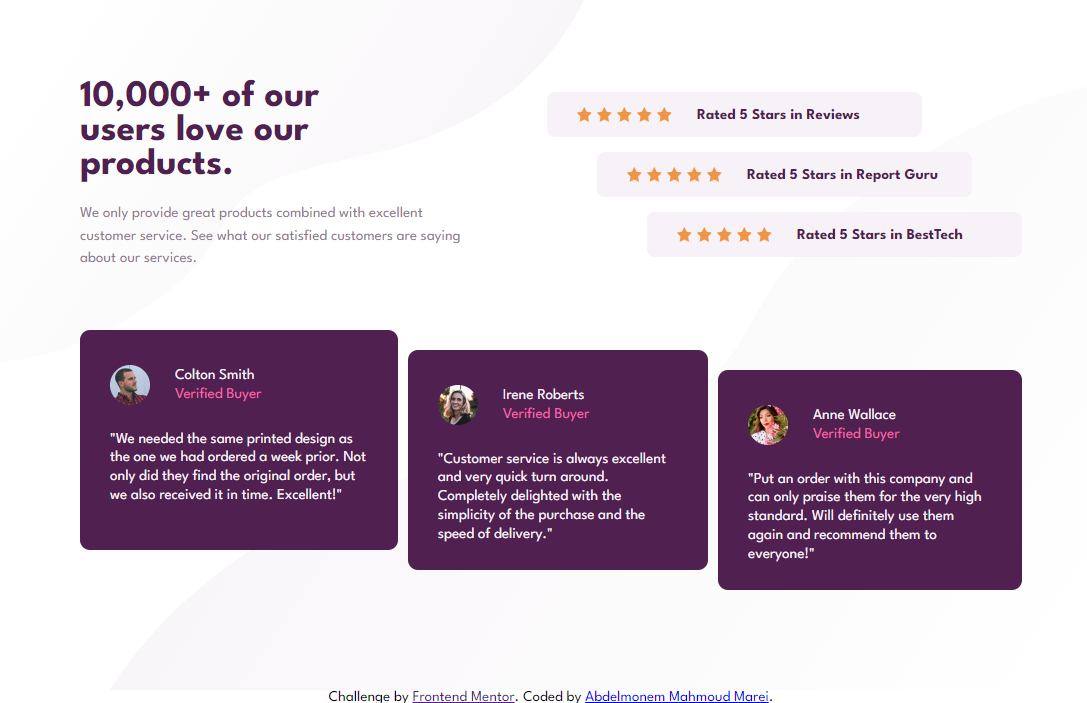
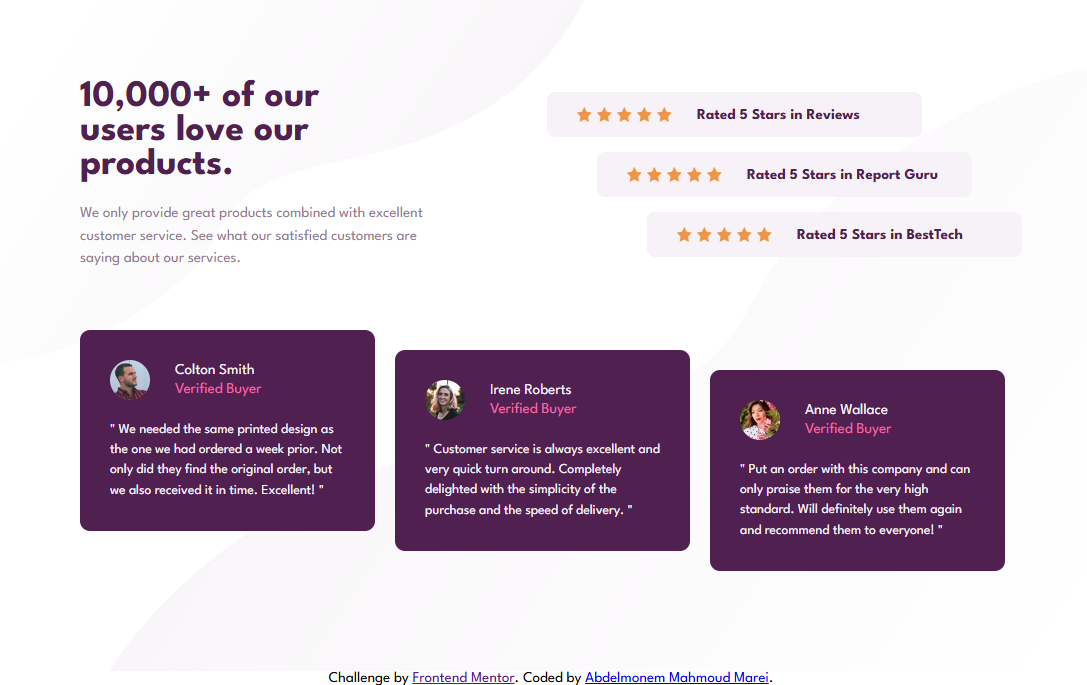
Update CSS File and add screenshots

diff --git a/Newbie/social-proof-section-master/css/main.css b/Newbie/social-proof-section-master/css/main.css
@@ -54,7 +54,7 @@ body{
 }
 .container .about .description >p{
     color: var(--Dark-Grayish-Magenta);
-    max-width: 385px;
+    max-width: 350px;
     line-height: 1.5;
 }
 .container .about .ratings{
@@ -93,17 +93,16 @@ body{
 }
 .container .testimonials{
     display: flex;
-    justify-content: space-between;
-    gap: 10px;
+    /* justify-content: space-between; */
+    gap: 20px;
     margin-top: 50px;
     padding: 50px 0;
 }
 .container .testimonials .card{
     background-color: var(--Very-Dark-Magenta);
     color: var(--Light-Grayish-Magenta);
-    max-width: 260px;
-    height: 185px;
-    padding: 35px 30px 0;
+    height: fit-content;
+    padding: 30px;
     border-radius: 10px;
     -webkit-border-radius: 10px;
     -moz-border-radius: 10px;
@@ -135,8 +134,10 @@ body{
     margin-top: 5px;
 }
 .container .testimonials .card .message{
-    line-height: 1.25;
-    margin-top: 25px;
+    line-height: 1.5;
+    margin-top: 20px;
+    font-size: 0.85rem;
+    max-width: 235px;
 }
 @media (max-width:991px) {
     .container{
@@ -166,6 +167,10 @@ body{
         flex-direction: column;
         text-align: center;
     }
+    .container .about .description >p{
+        max-width: 275px;
+        margin: auto;
+    }
     .container .about .ratings{
         margin:20px 0;
     }
@@ -177,7 +182,7 @@ body{
         align-items: center;
         margin: auto !important;
         background-color: var(--Light-Grayish-Magenta);
-        width: 290px;
+        width: 270px;
     }
     .container .about .ratings .rate .stars{
         display: block;
@@ -192,22 +197,21 @@ body{
     }
     .container .testimonials .card{
         margin: 0!important;
+        padding: 35px;
+    }
+    .container .testimonials .card .message{
+        max-width: 220px;
     }
 }
-@media (max-width:280px) {
+@media (max-width:350px) {
     .container .about .ratings .rate{
-        max-width: 230px;
+        width: 250px;
     }
     .container .testimonials .card{
-        padding: 35px 30px 20px;
-    }
-}
-@media (max-height:600px) {
-    .container{
-        height:540px ;
         padding: 30px;
-        overflow: hidden;
     }
+
 }
+
 /* There are several media queries due to there are several screen style-guide.md file of challenge does not recognize*/
 /* End styles */
